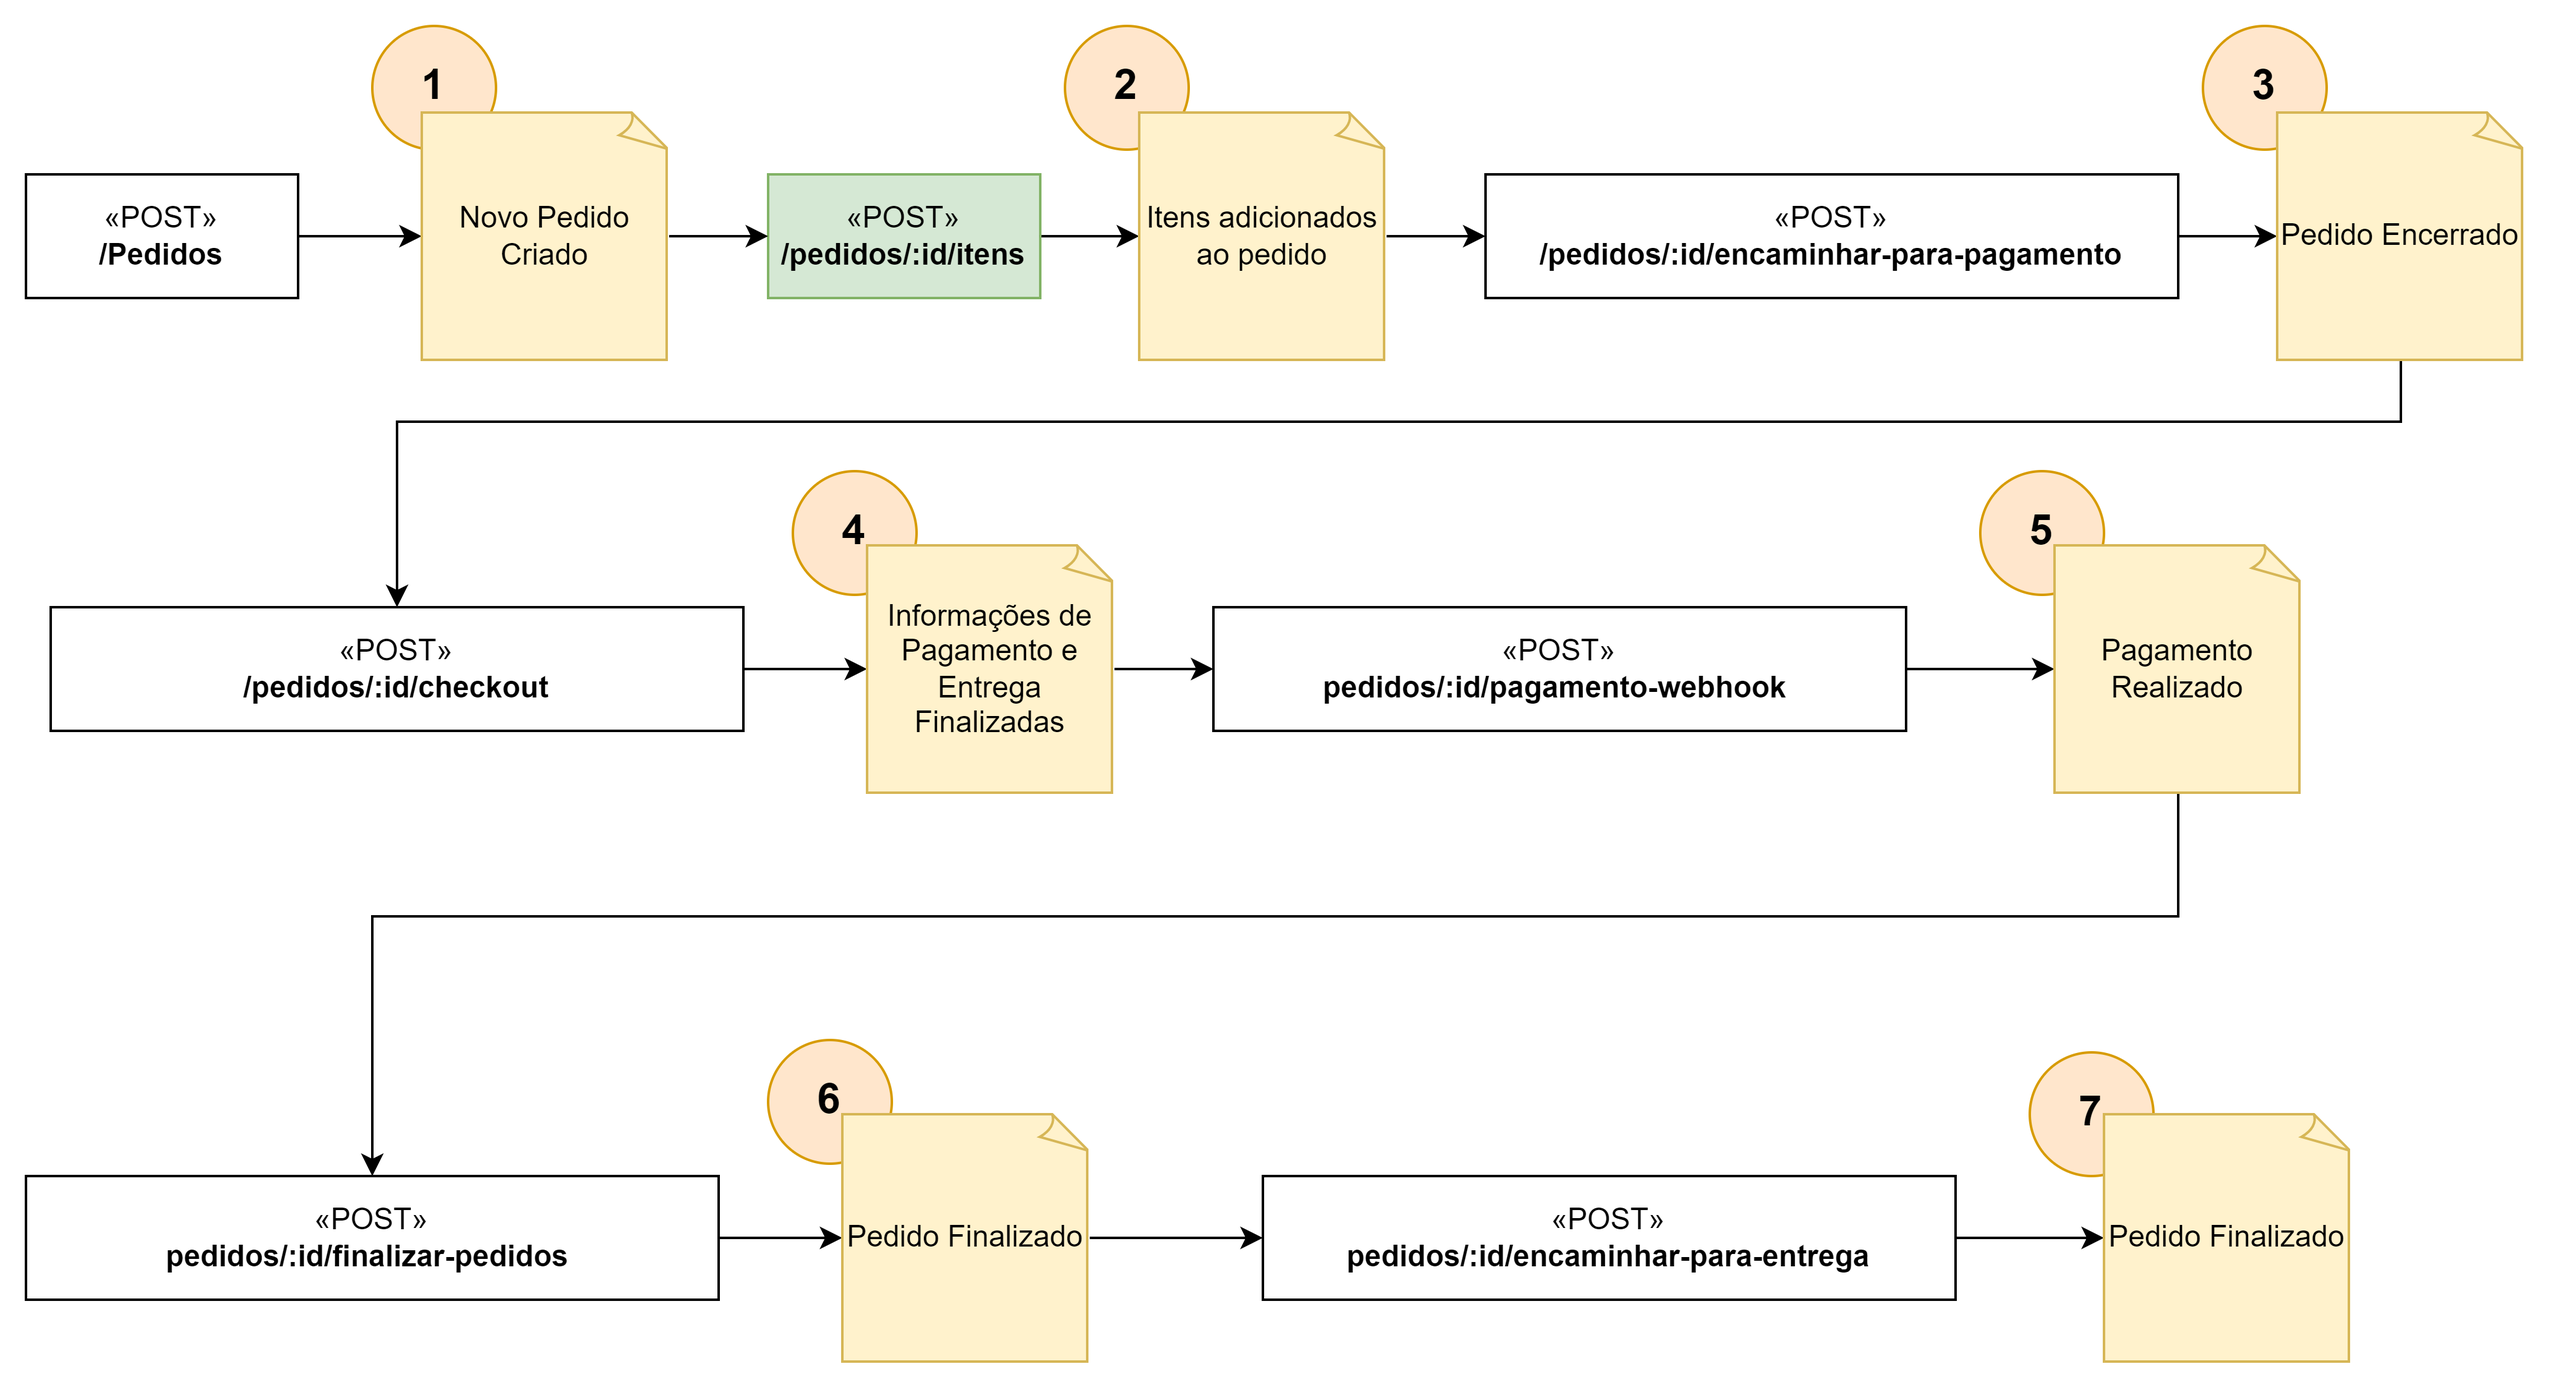
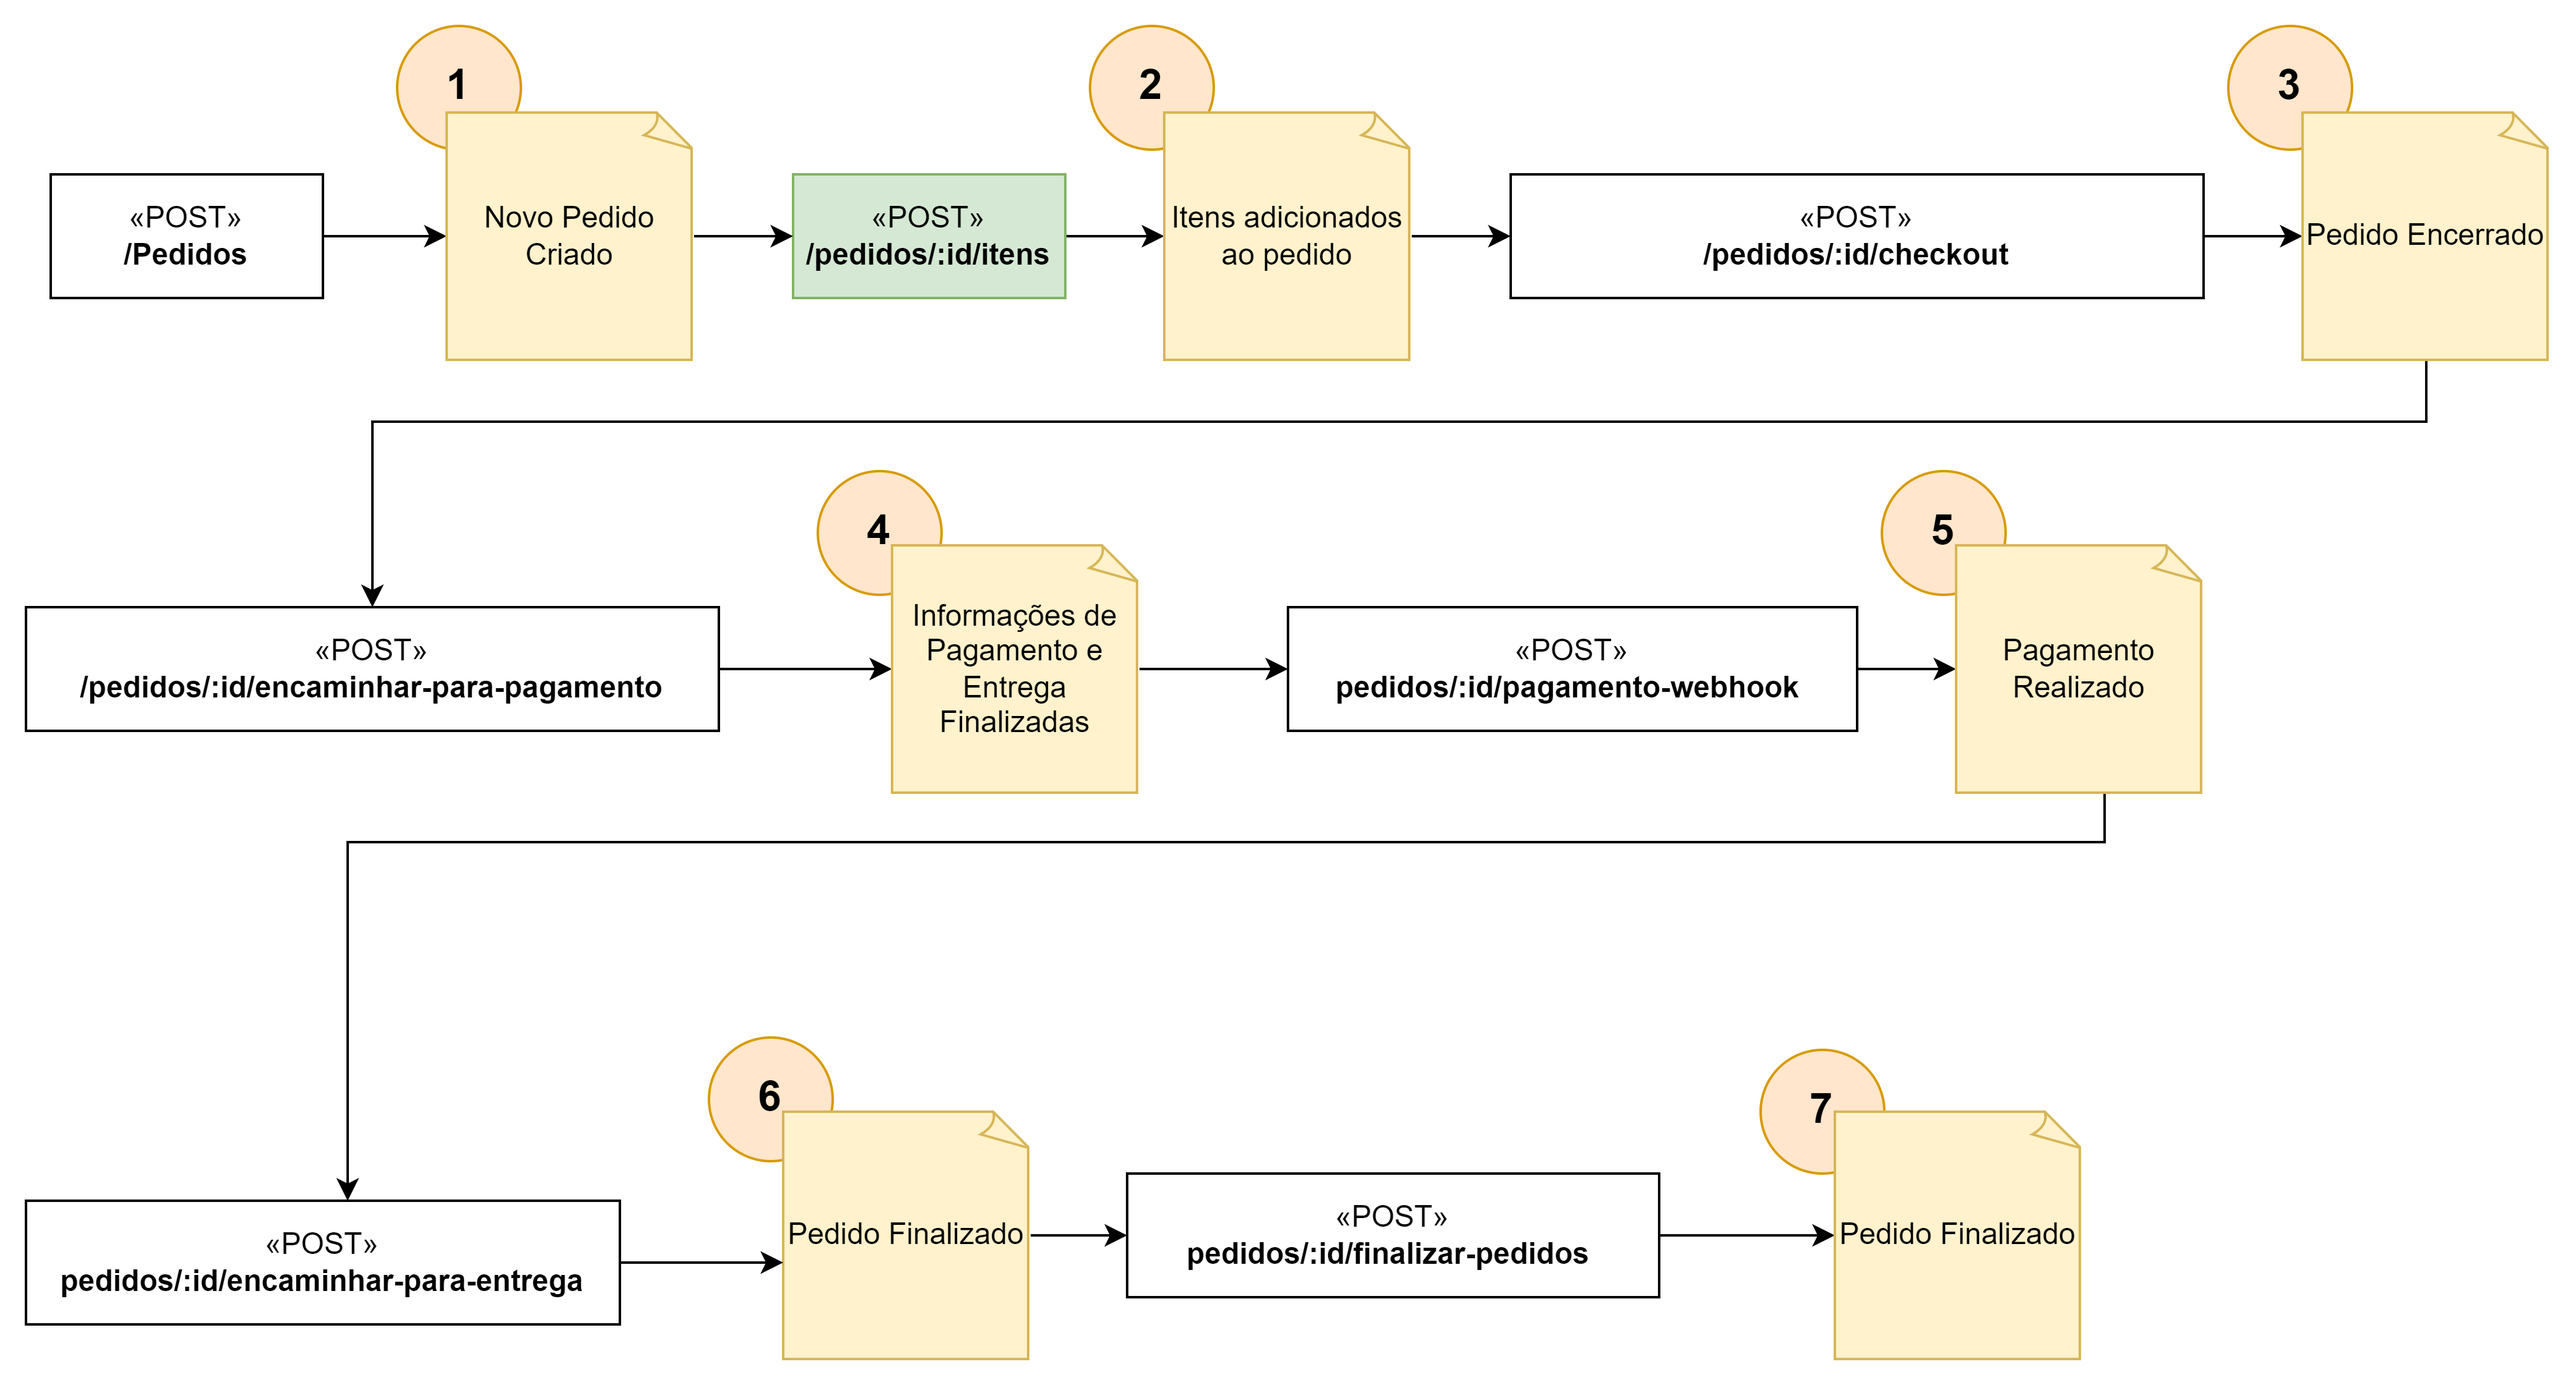
doc: alteracao fluxo

diff --git a/docs/endpoints/quick-start.md b/docs/endpoints/quick-start.md
@@ -2,7 +2,7 @@
 
 Com a API Lanchonete da Rua Instalada, algumas tabelas são preenchidas com [valores de demonstração](valores-demonstracao.md):
 
-![FluxoPedido](image.png)
+![NovoFluxo](image.png)
 
 ### 1) Inicie um novo pedido com o identificador do cliente, a sessão de navegação alguma outra informação como se segue no exemplo:
 
@@ -37,20 +37,20 @@ curl -X 'POST' \
 
 ```
 
-### 3) Encerre o pedido
-
-```bash
-curl -X 'PATCH' \
-  'http://localhost:5000/pedidos/1/encaminhar-para-pagamento' \
-  -H 'accept: application/json'
-```
-
-### 4) Prepare o pedido para pagamento e entrega (checkout)
+### 3) Prepare o pedido para pagamento e entrega (checkout)
 ```bash
 curl -X 'POST' \
   'http://localhost:5000/pedidos/1/checkout' \
   -H 'accept: application/json' \
   -d ''
+```
+
+### 4) Encerre o pedido
+
+```bash
+curl -X 'PATCH' \
+  'http://localhost:5000/pedidos/1/encaminhar-para-pagamento' \
+  -H 'accept: application/json'
 ```
 
 ### 5) Aguarde o pagamento do pagseguro
@@ -77,15 +77,6 @@ curl -X 'GET' \
   'http://localhost:5000/pedidos/na-fila' \
   -H 'accept: application/json'
 
-### 7) Finaliza pedido
-
-Esse endpoint encerra o pedido pela cozinha e o disponibiliza para entrega
-
-```bash
-curl -X 'PATCH' \
-  'http://localhost:5000/pedidos/1/finalizar-pedido' \
-  -H 'accept: application/json'
-```
 
 ### 7) Encaminhado para entrega
 Esse endpoint encerra o pedido. 
@@ -93,6 +84,16 @@ Esse endpoint encerra o pedido.
 ```bash
 curl -X 'PATCH' \
   'http://localhost:5000/pedidos/1/encaminhar-para-entrega' \
+  -H 'accept: application/json'
+```
+
+### 8) Finaliza pedido
+
+Esse endpoint encerra o pedido pela cozinha e o disponibiliza para entrega
+
+```bash
+curl -X 'PATCH' \
+  'http://localhost:5000/pedidos/1/finalizar-pedido' \
   -H 'accept: application/json'
 ```
 

diff --git a/docs/overview.md b/docs/overview.md
@@ -7,6 +7,7 @@ Há uma lanchonete de bairro que está expandindo devido seu grande sucesso. Por
 [Esta é nossa equipe de trabalho](./equipe.md)
 
 ## Setup e instalação
+
 [Instalação em docker](./setup%20and%20deploy/Docker.md)
 
 [Instalação em k8s](./setup%20and%20deploy/k8s.md)
